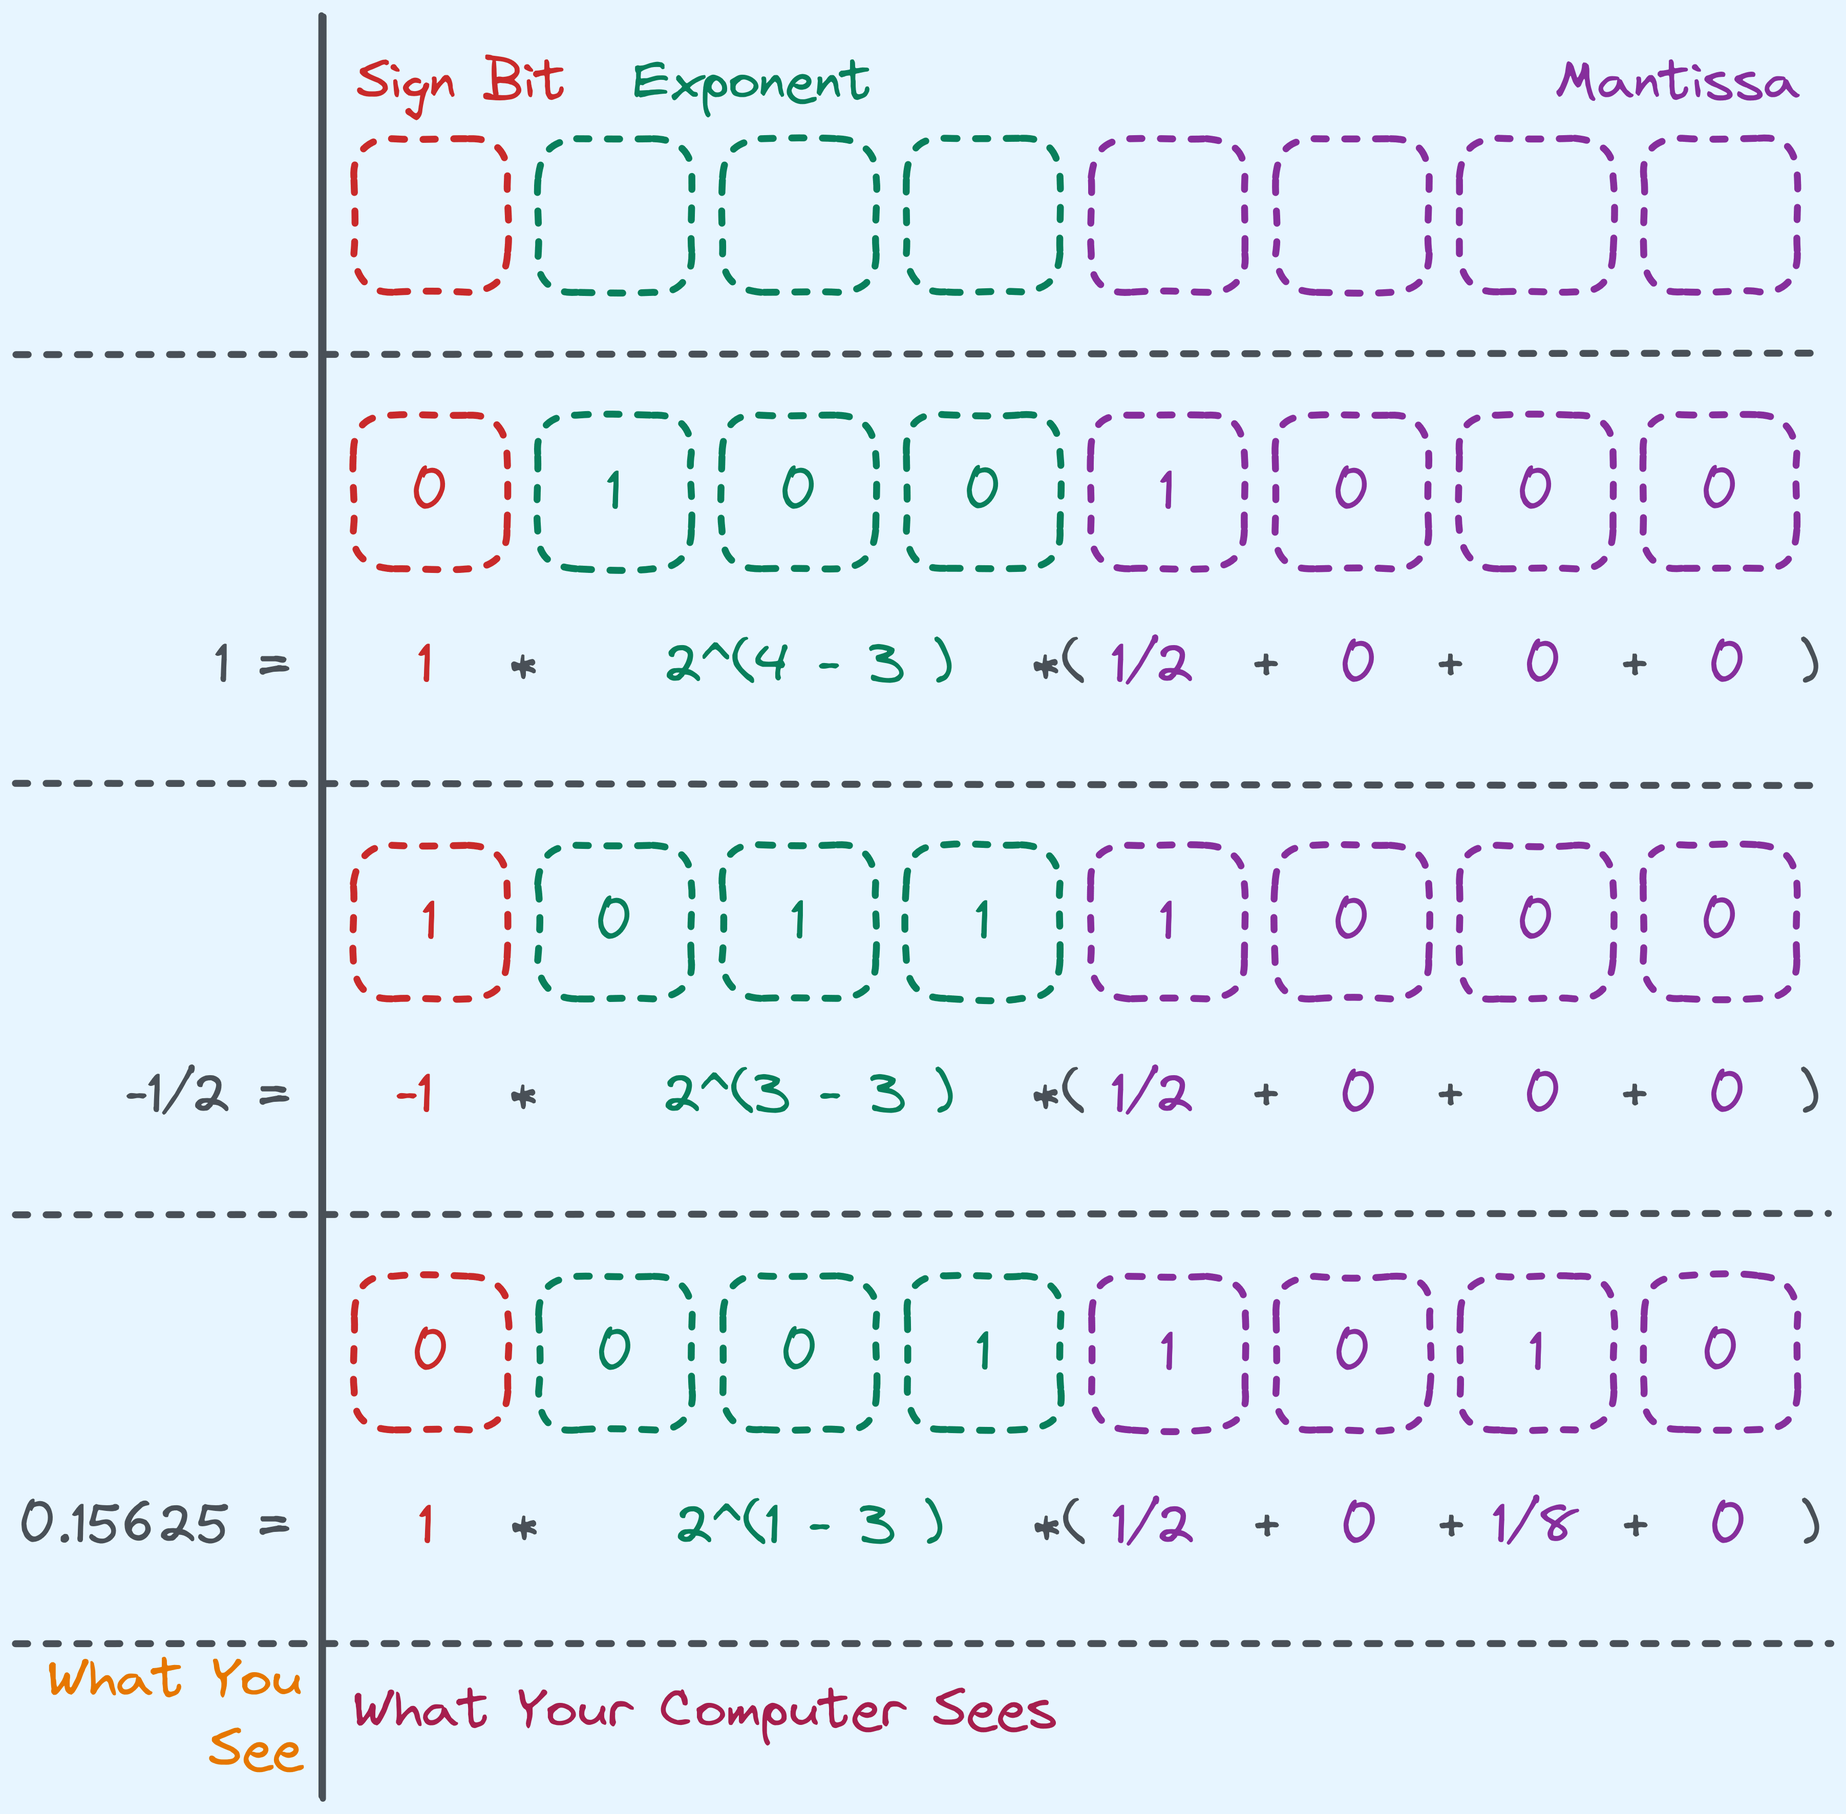
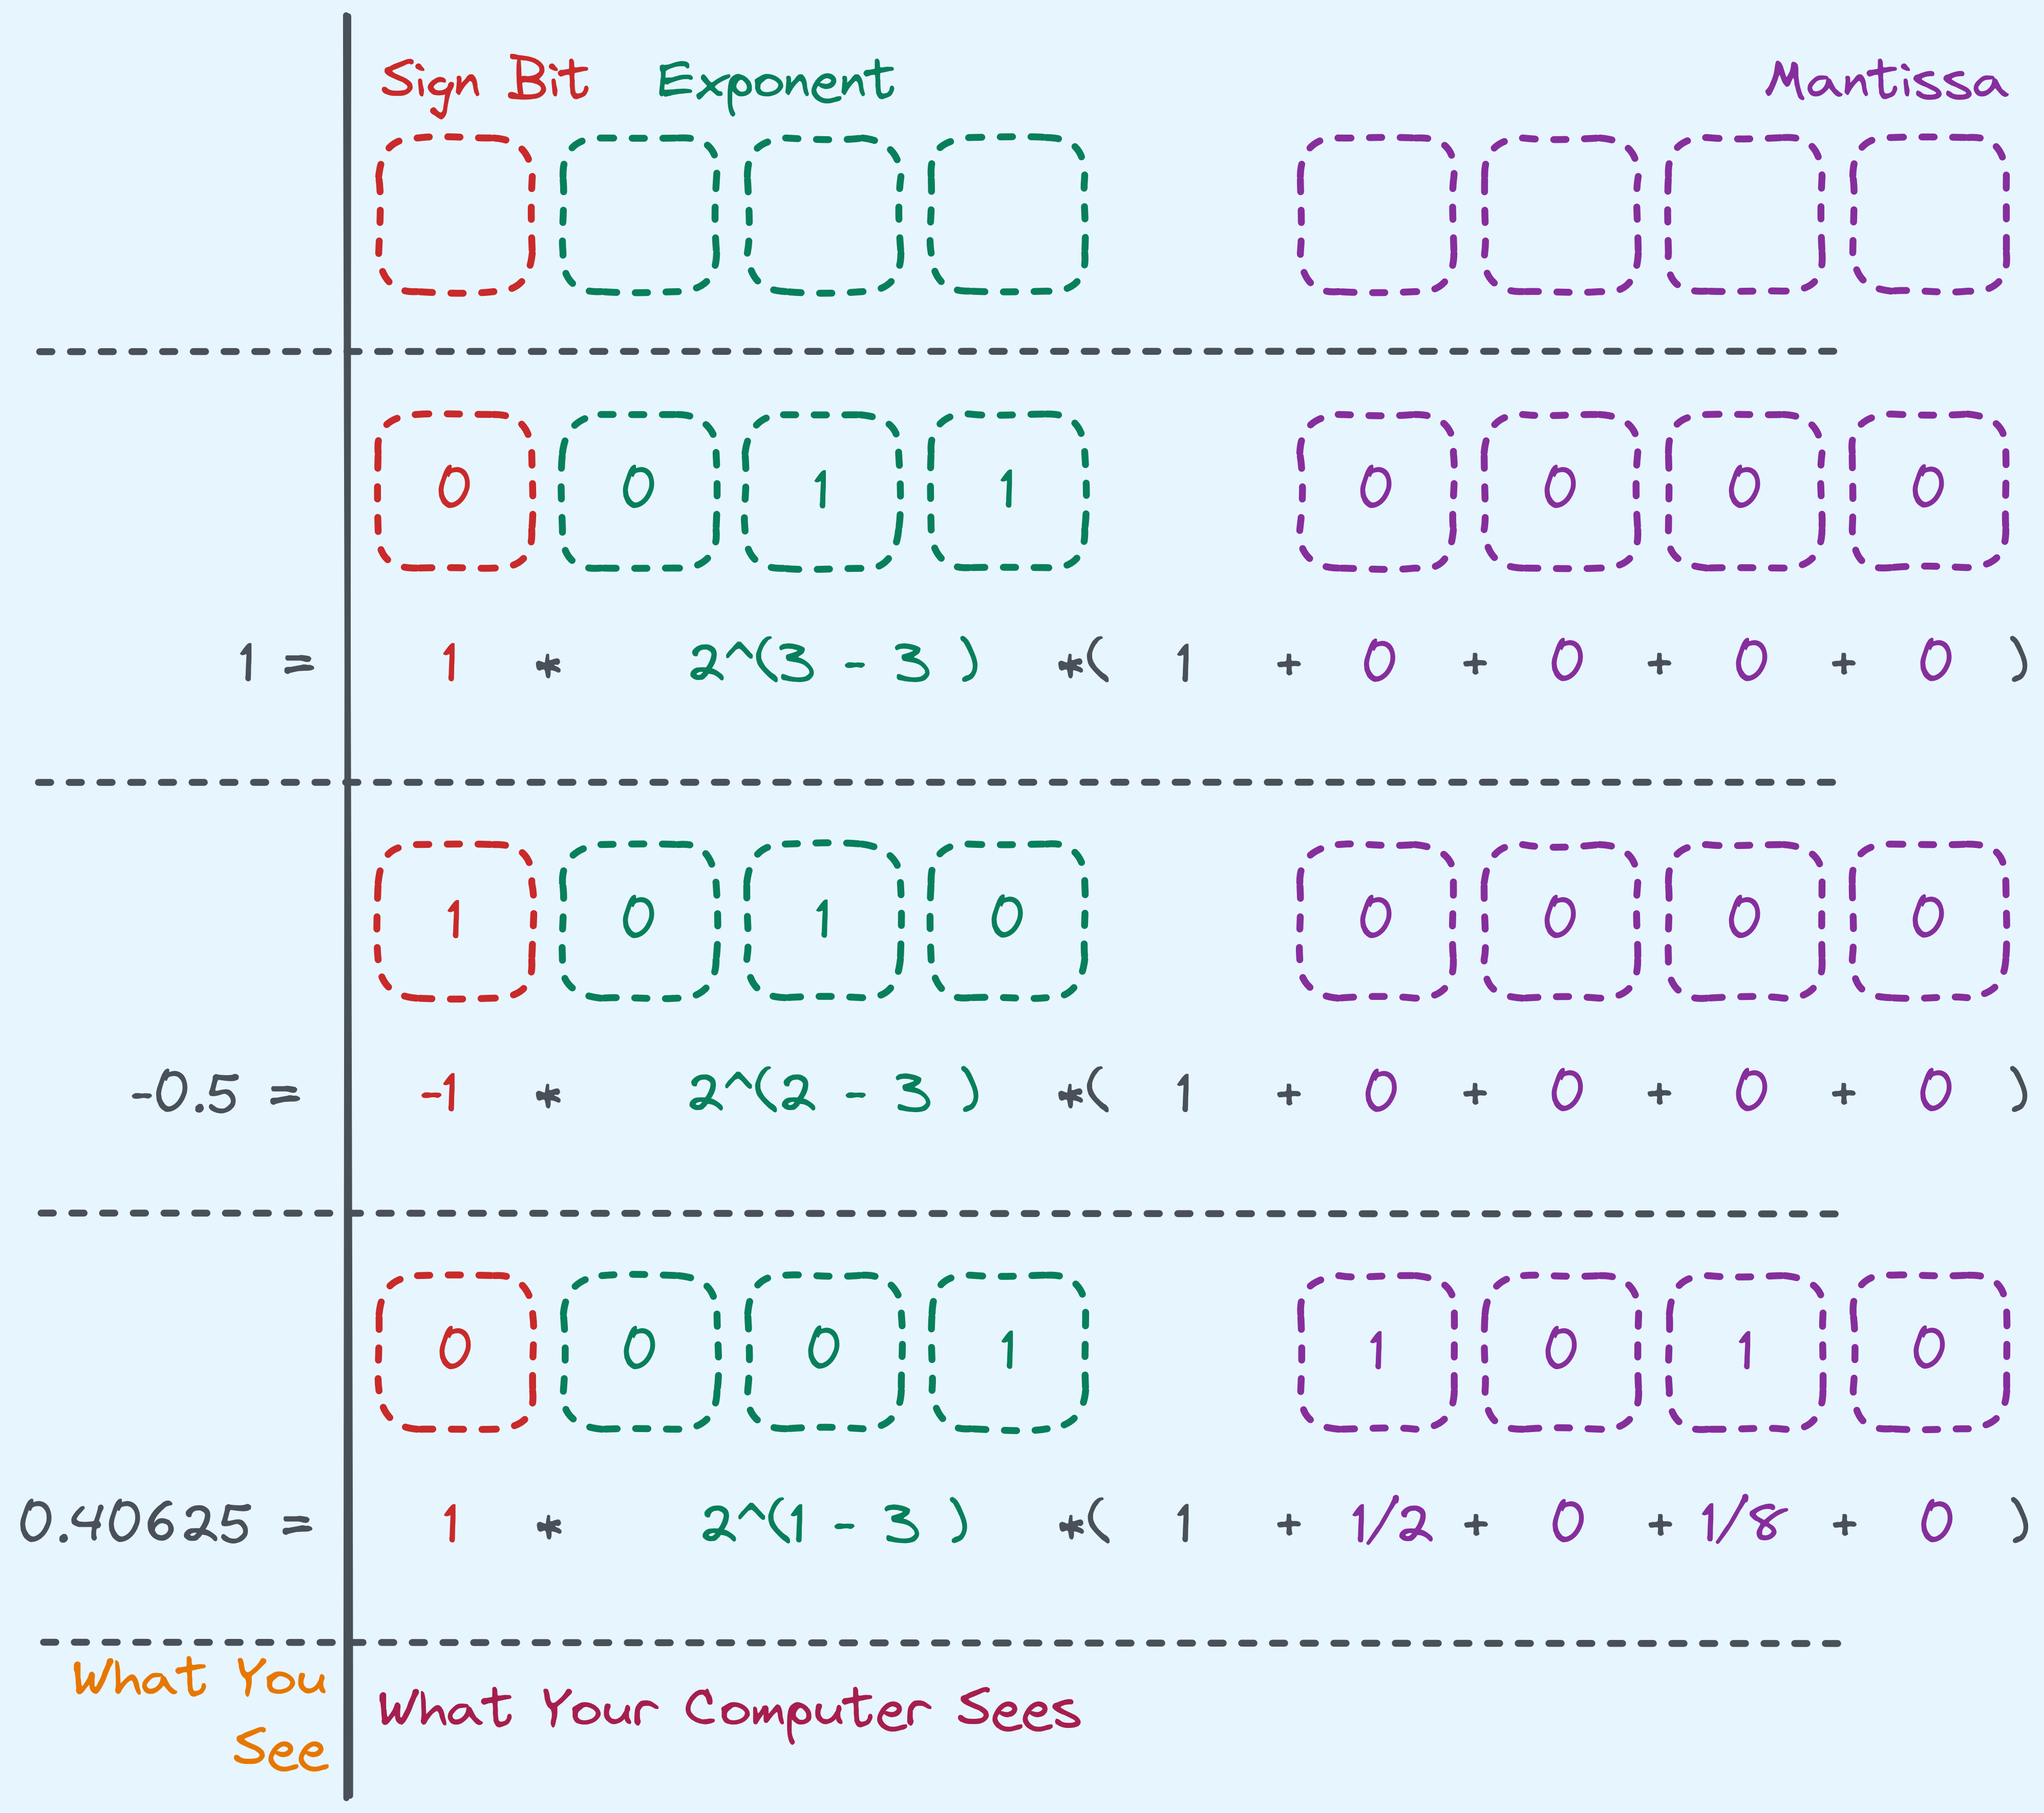
fix fp section

diff --git a/_algos/2022-12-18-basics.md b/_algos/2022-12-18-basics.md
@@ -419,7 +419,7 @@ than or equal to $$15$$ (try it!).
 
 Et voila! Welcome to what is known as [two's complement](https://en.wikipedia.org/wiki/Two%27s_complement).
 
-**Signed integers:** For integers that _might be_ negative, we can store them as _signed integers_ 
+**Signed Integers:** For integers that _might be_ negative, we can store them as _signed integers_ 
 in the manner as described above. 
 {: .notice--success}
 
@@ -431,7 +431,7 @@ So adding unsigned integers to signed integers might produce unexpected results 
 how we should be interpreting the numbers.
 {: .notice--warning} 
 
-### What about fractional values? A Sketch on Floating Point Values
+### What about fractional values?
 What happens if we want to represent numbers in between integers? What about $$\frac{1}{3}$$? What about 
 $$0.55$$? Relating it back to the decimal system that we're all comfortable with, we can try a format 
 that looks something like this:
@@ -453,19 +453,36 @@ but with only $$4$$ bits, some of these need to have the same bit representation
 the representation that we're going for, with limited bits means limited precision. Let's explain what this 
 means in the binary system.
 
+#### The Fixed-Point System
+We'll start with the fixed-point system.
+
 ![](/assets/img/algos/basics/example-binary-point.png)
 Fractional binary values.
 {: style="color:gray; font-size: 80%; text-align: center;"}
 
 The above example is if we had $$6$$ bits, and notice that with $$3$$ bits for the fractional part,
-we can store any fractional value in the range of $$0$$ to $$0.875$$. Normally, for a mantissa,
-we would all $$6$$ bits to the right of the binary point. This means we store values between
-$$0$$ and $$1$$.
+we can store any fractional value in the range of $$0$$ to $$0.875$$ --- basically we have a 
+fixed precision of $$0.125$$.
 
-Now the rough idea, on how to store fractional values in binary, is the following:
+**Fixed Point Values**: If we want to store fractional values up to a fixed precision, 
+we can store them as a _fixed point_ value in the manner as described above.
+{: .notice--success}
+
+#### The Floating-Point System
+But that can be a bit wasteful. We've fixed exactly how many digits we can store before and 
+after the point. Consider on the other hand, viewing every value in the following way:
+
+![](/assets/img/algos/basics/normalized-fp.png)
+Normalised Floating Point Number.
+{: style="color:gray; font-size: 80%; text-align: center;"}
+
+So the rough idea, on how to store fractional values in binary, is the following:
 1. Use 1 bit for the sign.
-2. Use some bits for the mantissa (which stores a value between $$0$$ and $$1$$).
-3. Use some bits for the exponent (which is offset from a negative number).
+2. Use some bits for the mantissa. 
+3. Use some bits for the exponent.
+
+So in the diagram above, we're using $$3$$ bits to store a number between $$1.000$$ and $$1.875$$ in increments of $$0.125$$. Some bits are also going to encode an integer $$m$$. In practice, 
+when we store $$m$$, we start from some negative power, like so: $$2^{-256 + m}$$.
 
 Here's an example with $$8$$ bits.
 
@@ -473,16 +490,10 @@ Here's an example with $$8$$ bits.
 Rough idea with $$8$$ bits.
 {: style="color:gray; font-size: 80%; text-align: center;"}
 
-Note that in the exponent, the value stored needs to interpreted as an offset added to $$-(2^2 - 1) = -3$$,
-since we're using $$3$$ bits for the exponent. The reason why we do this is because we also want negative
-powers, not just nonnegative ones.
-In general, for $$b$$ bits, the exponent is added to $$-(2^b - 1)$$. At this point you might notice in the 
-example I've shown you guys, there's more than one way to represent the same value by.
-
 The actual way that single and double precision values are represented as specified in 
 the [IEEE 754 standard](https://en.wikipedia.org/wiki/IEEE_754) actually has a few optimisations
 and deals with edge cases that we won't cover here. Just a simple understanding of how it roughly works 
-is good enough for our purposes.
+is good enough.
 
 For _single-precision_ values ($$32$$-bit representation), $$23$$ bits are used for the mantissa, and 
 $$8$$ bits are used for the exponent. For _double-precision_ values ($$64$$-bit representation),
